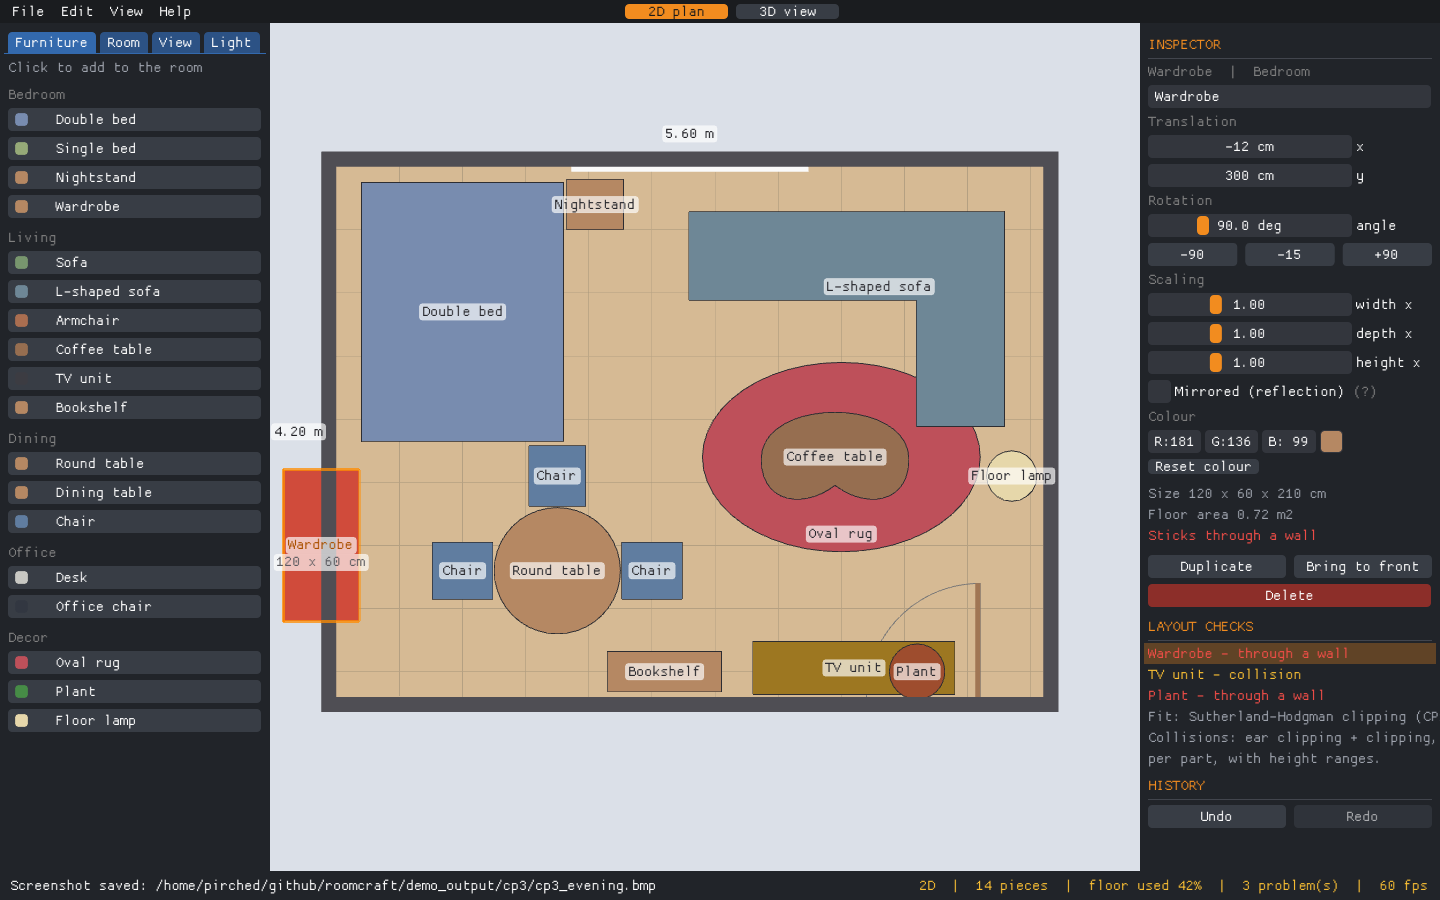
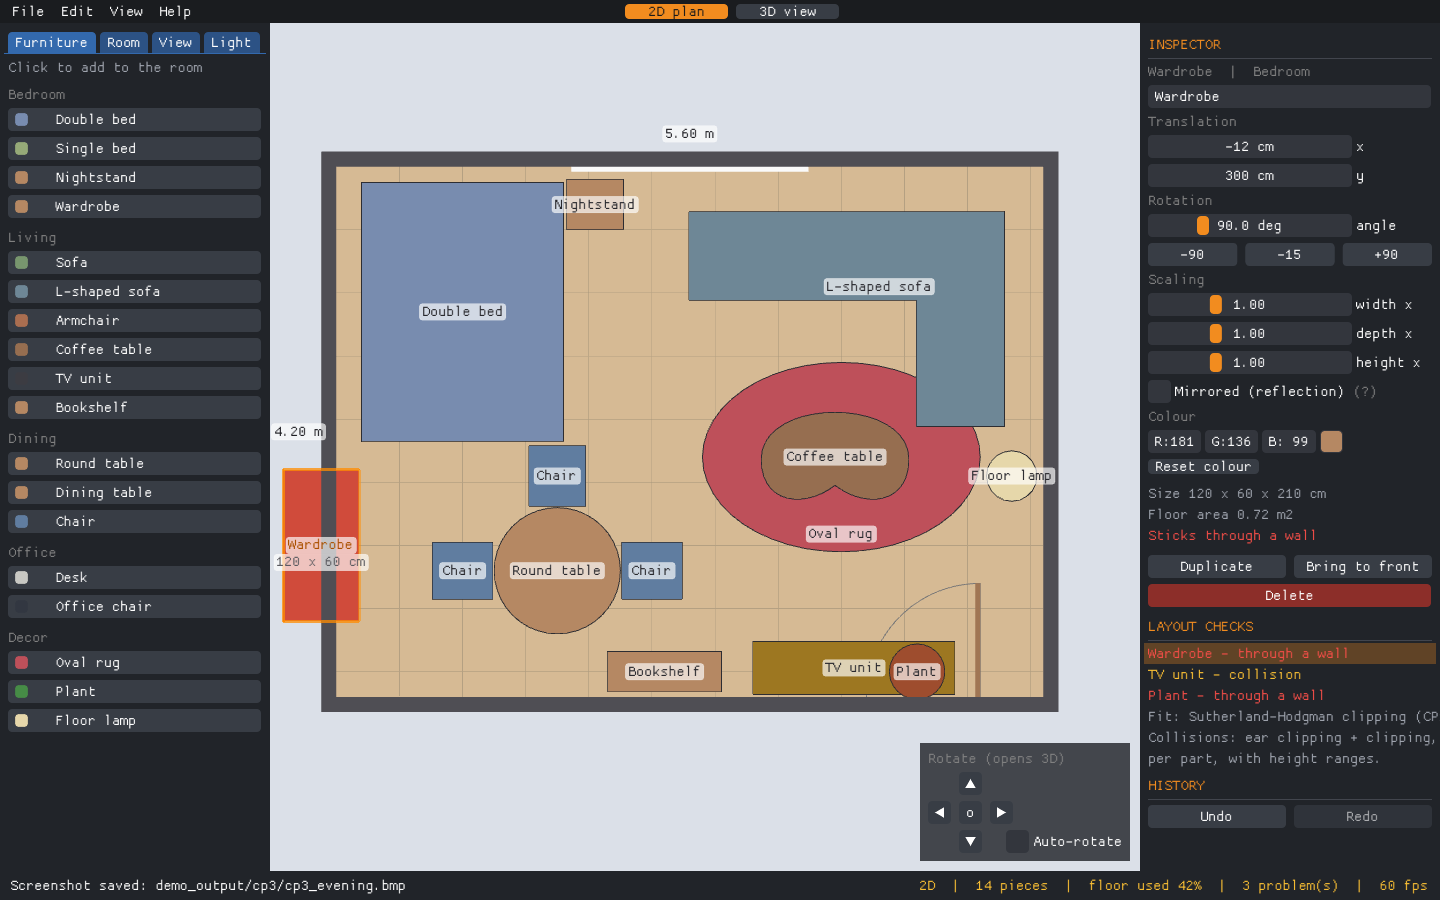
Document the 3D view rotation controls; refresh screenshots

Changed region(s): [[0.625, 0.8089, 0.8125, 0.9644], [0.0938, 0.9644, 0.4375, 0.9956]]

diff --git a/README.md b/README.md
@@ -163,8 +163,9 @@ orbit camera drive the GPU through our GLSL shaders (no GLM, no engine).
 - **Room:** change its width, depth and wall height, and the floor and wall
   colours.
 - **2D ↔ 3D:** switch with Tab. An animated transition grows the furniture out
-  of the plan. In 3D, orbit, zoom towards the mouse and pan; walls between the
-  camera and the room are cut away.
+  of the plan. In 3D, rotate the view (drag empty floor, right-drag, Q/E, the
+  corner buttons or auto-rotate), zoom towards the mouse and pan; walls
+  between the camera and the room are cut away.
 - **Lighting:** a sun (directional) and a ceiling lamp (point light) with
   Blinn–Phong shading, floor shadows, and Day/Evening/Night presets.
 - **Checks:** pieces through a wall turn red, colliding pieces amber; the
@@ -183,11 +184,15 @@ orbit camera drive the GPU through our GLSL shaders (no GLM, no engine).
 | Input | Action |
 |---|---|
 | Left click / drag | Select / move a piece (click empty floor to deselect) |
-| Right drag | 3D: orbit · 2D: pan |
+| Left drag on empty floor (3D) | Rotate the view |
+| Right drag | 3D: rotate the view · 2D: pan |
+| Q / E, Page Up / Page Down | Turn the 3D view left / right, look from higher / lower |
+| Arrow keys, nothing selected | Turn and tilt the 3D view |
+| Corner buttons in the view | Rotate, reset the angle, auto-rotate (turntable) |
 | Middle drag | Pan |
 | Wheel / Shift+wheel | Zoom towards the mouse / rotate the selected piece |
 | R, Shift+R | Rotate ±15° |
-| Arrow keys (Shift) | Nudge by one grid step (1 cm) |
+| Arrow keys with a piece selected (Shift) | Nudge it by one grid step (1 cm) |
 | Del, Ctrl+D | Delete, duplicate |
 | Ctrl+Z, Ctrl+Y | Undo, redo |
 | Tab, F, G | 2D/3D, frame the room, snap on/off |
@@ -201,7 +206,7 @@ orbit camera drive the GPU through our GLSL shaders (no GLM, no engine).
 | Extrusion to lit meshes | Prism sides with outward normals `(dy, −dx)`, CCW front faces, triangulated caps | [mesh.cpp](src/editor/mesh.cpp) | Furniture parts, walls with door/window openings |
 | Hierarchical models | Room → piece (pose matrix) → parts (local polygons + height ranges) | [catalogue.cpp](src/editor/catalogue.cpp), [mesh.cpp](src/editor/mesh.cpp) | 18 multi-part furniture models |
 | 2D ↔ 3D transition | Eased blend of elevation, azimuth and a dolly zoom (2° → 50° FOV at constant screen size); heights scaled by the blend | [camera_rig.cpp](src/editor/camera_rig.cpp) | The animated switch between plan and 3D |
-| Orbit, pan, zoom | Spherical coordinates; pan and zoom keep the floor point under the mouse fixed | [camera_rig.cpp](src/editor/camera_rig.cpp), [app.cpp](app/app.cpp) | 3D camera controls |
+| Orbit, pan, zoom | Spherical coordinates; stepped turns glide by exponential smoothing `1 − e^(−k·dt)` (frame-rate independent); pan and zoom keep the floor point under the mouse fixed | [camera_rig.cpp](src/editor/camera_rig.cpp), [app.cpp](app/app.cpp) | Rotating, zooming and panning the 3D view |
 | Ray picking | Pixel → NDC → ray; ray vs prism (caps by point-in-polygon, sides by segment intersection), nearest hit | [picking.cpp](src/editor/picking.cpp) | Clicking and dragging pieces in 3D |
 | Lighting | Blinn–Phong: ambient + directional sun + point lamp with distance attenuation | [renderer.cpp](src/gfx/renderer.cpp) | Shaded 3D view, day/evening/night |
 | Shadows | Planar projection matrix onto the floor + stencil buffer (each pixel darkened once) | [renderer.cpp](src/gfx/renderer.cpp) | Furniture shadows from the sun |
@@ -403,12 +408,14 @@ All 26 passed on the tested Linux machine.
 
 The app itself needs a display, so it is not part of the default test run.
 Configure with `-DROOMCRAFT_TEST_APP=ON` to add `roomcraft_app_capture`: it
-runs the scripted tour in a hidden window and checks six real interactions
+runs the scripted tour in a hidden window and checks real interactions
 (injected mouse and keyboard events): a click selects the piece under it, a
 100-pixel drag moves it by the matching distance, Ctrl+Z undoes the whole drag
 in one step, Tab completes the 2D-to-3D transition, a right-drag orbits by the
-expected angle, and the wheel zooms by the expected factor. It passed on the
-tested Linux machine.
+expected angle, the wheel zooms by the expected factor, a left-drag on empty
+floor rotates the view without moving any furniture, Q turns the view by
+exactly 15°, the corner rotate control is shown and auto-rotate turns at its
+set speed. It passed on the tested Linux machine.
 
 ### Checkpoint 1 tests
 
@@ -446,10 +453,10 @@ printed by the current executables (`test_*: N checks, 0 failed`).
 | `test_triangulate` | 1,102 | Ear clipping gives n − 2 triangles with the polygon's winding, exact total area and no triangle outside, for every catalogue shape, combs, stars, 300 random concave polygons, both windings, transformed shapes and degenerate input; overlap areas of convex and concave pairs |
 | `test_layout` | 790 | Catalogue ids, centring, parts inside footprints and heights; item footprints; the sample and example layouts fit with no collisions; 3D-aware collisions (a chair under a table top is fine, its backrest is not); wall clamping; door/window placement; save/load round trip, Windows line endings, unknown types and invalid files |
 | `test_mesh` | 387 | Every triangle counter-clockwise from its normal's side; unit normals; outward side normals for both windings; triangle counts; every model inside its footprint and as tall as its type; walls, cut walls, openings, floor, grid and door swing |
-| `test_camera_picking` | 147 | Plan camera orientation and scale; project → ray round trip at 21 transition stages and 3 aspect ratios; easing midpoint; dolly zoom keeps screen size; orbit limits; framing; ray vs prism for caps, sides, concave notches and floating parts; nearest-piece picking; plan picking agrees with the CP1 `findFurnitureAt` |
+| `test_camera_picking` | 163 | Plan camera orientation and scale; project → ray round trip at 21 transition stages and 3 aspect ratios; easing midpoint; dolly zoom keeps screen size; orbit limits; stepped turns glide and add up at any frame rate; reset the short way round; auto-rotate; framing; ray vs prism for caps, sides, concave notches and floating parts; nearest-piece picking; plan picking agrees with the CP1 `findFurnitureAt` |
 | `test_editor` | 79 | Adding to the nearest free spot; selection; rotation steps and wrap; duplicate; nudging stopped at walls; drag with grid snap and wall clamping; a drag is one undo step and a click is none; inspector gestures; undo/redo of room and layout changes; checks cache; save/open |
 
-The five CP3 unit tests contain 2,505 checks.
+The five CP3 unit tests contain 2,521 checks.
 
 ---
 

diff --git a/docs/cp3/notes.md b/docs/cp3/notes.md
@@ -14,7 +14,7 @@ cmake --build build -j
 ```
 
 `./build/roomcraft_app --capture demo_output/cp3` runs a scripted tour in a
-hidden window, saves the screenshots and GIF used below, and checks six real
+hidden window, saves the screenshots and GIF used below, and checks real
 mouse/keyboard interactions (it exits with code 1 if any fails).
 
 | Image | Shows |
@@ -38,7 +38,7 @@ mouse/keyboard interactions (it exits with code 1 if any fails).
 | Rectangular room with adjustable dimensions | **Done** | Width, depth and wall height in the Room tab; the door and window follow the walls. |
 | Real-time 2D-to-3D conversion | **Done** | One layout, two views. Every edit shows immediately in both; Tab switches with an animated transition. |
 | Basic 3D furniture as simple shapes | **Done, extended** | 18 catalogue types, each a multi-part model (a bed is a base, mattress, duvet, headboard and pillows) built by extruding plan polygons. |
-| 3D camera: orbit, zoom, pan | **Done** | Right-drag orbits (spherical coordinates), wheel zooms towards the mouse, middle-drag pans. |
+| 3D camera: orbit, zoom, pan | **Done** | Rotate by dragging empty floor or right-dragging, with Q/E or the arrow keys, with the corner buttons, or with auto-rotate (spherical coordinates). The wheel zooms towards the mouse; middle-drag pans. |
 | Ambient + directional/point light, Phong-style shading | **Done** | Blinn–Phong in our fragment shader: ambient, a sun (directional) and a ceiling lamp (point light with attenuation). Day/Evening/Night presets. |
 | Colour selection for walls and furniture | **Done** | Colour pickers for every piece, the floor and the walls. |
 | Scene graph room → walls → furniture | **Done, simplified** | Room → piece (pose) → parts. Each part's world placement is the piece's pose matrix applied to the part's local polygon. |
@@ -191,9 +191,29 @@ twice. That is why an edit in either view shows instantly in the other.
 3. **Component:** selection, hover highlight, dragging, zoom-to-cursor, pan.
 4. **Achieves:** click on what you see, in 2D, in 3D and during the
    transition; tall pieces hide what is behind them.
-5. **Show:** hover and click pieces in 3D. Tests: `test_camera_picking` (147
+5. **Show:** hover and click pieces in 3D. Tests: `test_camera_picking` (163
    checks, including a round trip — project a point, cast the ray back, the
    point lies on it — at 21 transition stages and 3 aspect ratios).
+
+### 6b. Rotating the 3D view
+
+1. **What?** Orbiting the camera round the room on a sphere (azimuth = turn,
+   elevation = tilt), with smooth stepped turns and a turntable mode.
+2. **How?** `CameraRig::orbit` (mouse drags: immediate, 0.3°/pixel),
+   `orbitBy` (keys and buttons: adds to a goal angle) and `update`, which moves
+   the camera a fixed fraction `1 − e^(−14·dt)` of the remaining way each frame
+   — exponential smoothing, the same speed at any frame rate; steps added while
+   gliding just extend the motion. Elevation is clamped to 8°–89° (never under
+   the floor, never straight down where "up" is undefined). `autoRotate` adds
+   `speed · dt` each frame. In the app, a left press on empty floor becomes an
+   orbit once the mouse moves more than 4 pixels; otherwise it is a click that
+   deselects.
+3. **Component:** the 3D camera; the corner control, Q/E, arrow keys, View tab.
+4. **Achieves:** the proposal's orbit control, usable without a right mouse
+   button (touchpads) and discoverable on screen.
+5. **Show:** drag empty floor in 3D; hold the corner arrow; tick Auto-rotate.
+   Tests: `test_camera_picking` (glide, accumulation, frame-rate independence,
+   clamping, reset the short way round, auto-rotate) and the capture checks.
 
 ### 7. Interaction: drag on a plane, snapping, clamping, undo
 
@@ -302,6 +322,12 @@ solved.
 - **Proving the interaction works without a person at the mouse.** The
   scripted capture injects real mouse/keyboard events into ImGui's input
   queue and checks the results (drag distance, undo, Tab, orbit angle, zoom).
+- **Rotating the 3D view was hard to discover.** It needed a right-button
+  drag, which nothing on screen mentioned and which is awkward on a touchpad.
+  Added left-drag on empty floor, keys, a corner control and auto-rotate. The
+  first version of the left-drag turned too far: when a press became a drag,
+  the movement of that frame was applied twice. The capture check (a
+  120-pixel drag must turn exactly 36°) failed and caught it.
 - **UI that did not fit.** The first panel layout ran off the bottom of the
   window and a two-column catalogue truncated the names; replaced by tabs.
 
